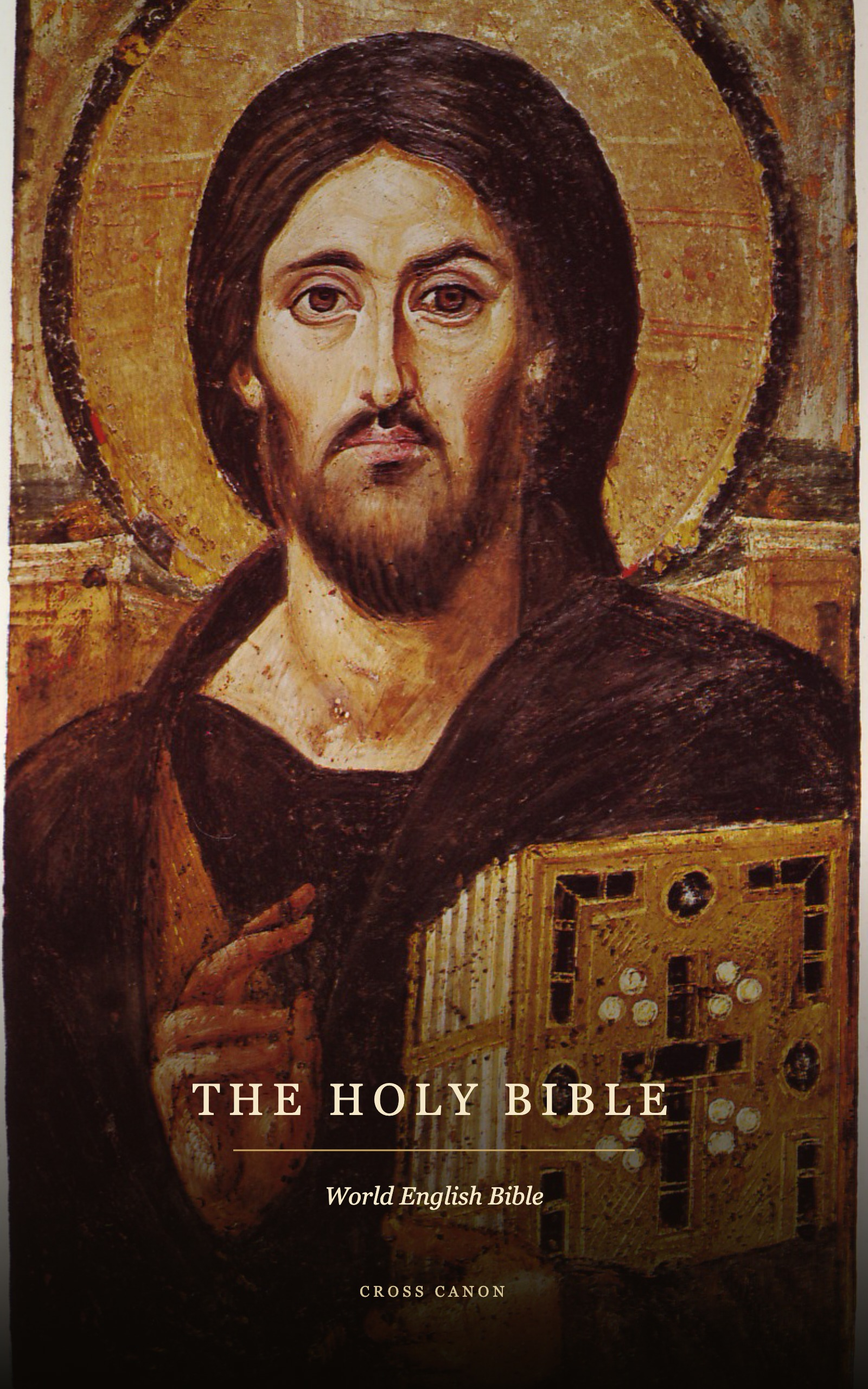
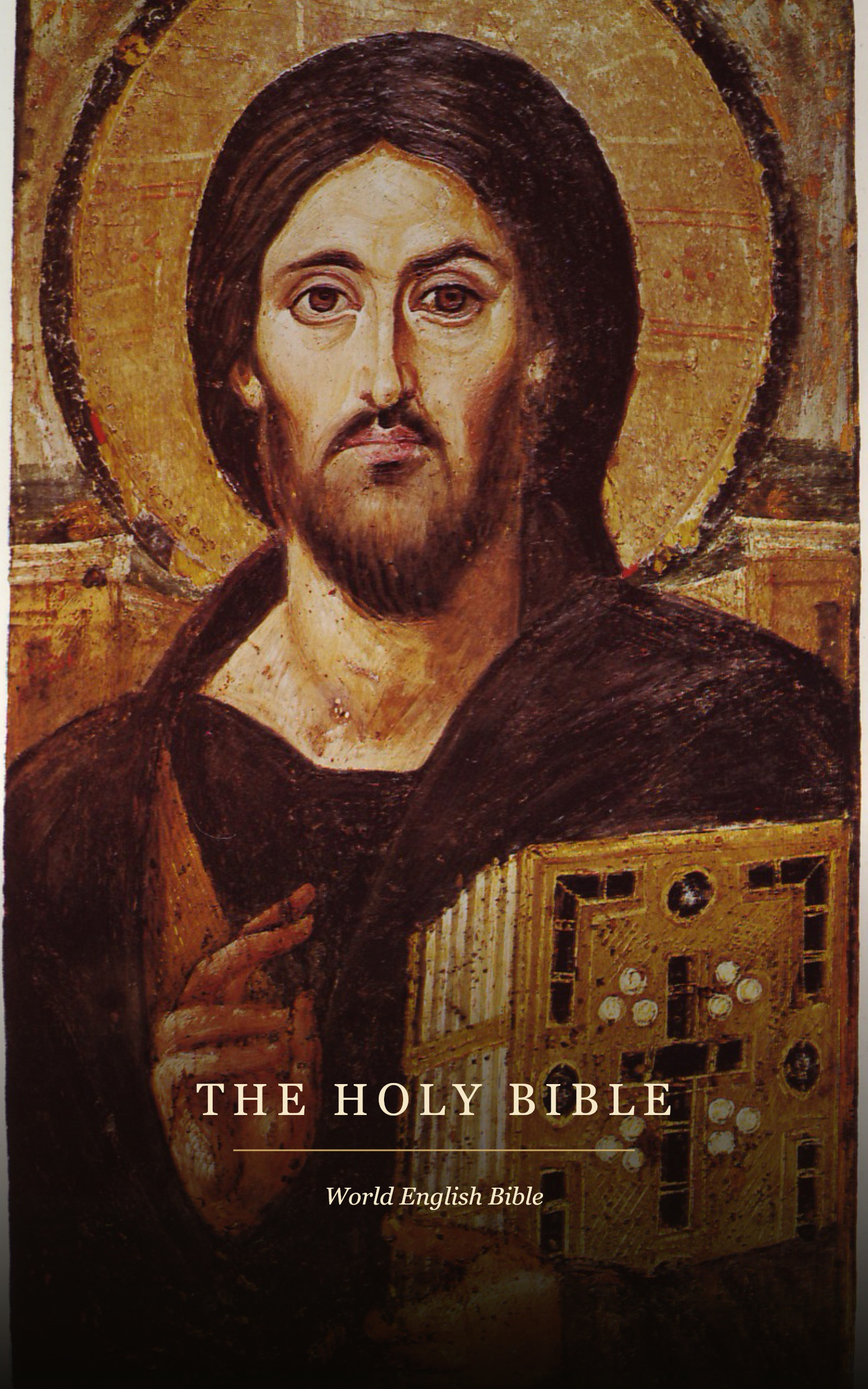
Add compact Kindle contents page

Changed region(s): [[0.375, 0.7812, 0.7812, 0.8125], [0.2188, 0.7812, 0.3438, 0.8125], [0.5312, 0.9062, 0.5625, 0.9375]]

diff --git a/scripts/export-kindle-bible.ts b/scripts/export-kindle-bible.ts
@@ -27,9 +27,10 @@ type BibleVerse = {
 };
 
 const DEFAULT_INPUT_PATH = "data/bible.json";
-const DEFAULT_OUTPUT_PATH = "exports/kindle/cross-canon-bible.epub";
+const DEFAULT_OUTPUT_PATH = "exports/kindle/The Holy Bible.epub";
 const DEFAULT_COVER_PATH = "assets/kindle/cross-canon-bible-cover.jpg";
-const EPUB_TITLE = "The Holy Bible — World English Bible";
+const EPUB_TITLE = "The Holy Bible";
+const BOOK_GRID_COLUMNS = 3;
 const CHAPTER_GRID_COLUMNS = 10;
 
 async function run() {
@@ -173,7 +174,8 @@ function createBibleEpub(bible: Bible, coverImage: Buffer, generatedAt: Date) {
       path: "EPUB/images/cover.jpg"
     },
     epubTextEntry("EPUB/text/cover.xhtml", createCoverPage()),
-    epubTextEntry("EPUB/text/title.xhtml", createTitlePage())
+    epubTextEntry("EPUB/text/title.xhtml", createTitlePage()),
+    epubTextEntry("EPUB/text/contents.xhtml", createContentsDocument(bible))
   ];
 
   bible.books.forEach((book, index) => {
@@ -209,11 +211,10 @@ function createPackageDocument(bible: Bible, generatedAt: Date) {
   return `<?xml version="1.0" encoding="UTF-8"?>
 <package xmlns="http://www.idpf.org/2007/opf" version="3.0" unique-identifier="book-id" xml:lang="en">
   <metadata xmlns:dc="http://purl.org/dc/elements/1.1/">
-    <dc:identifier id="book-id">https://www.crosscanon.com/exports/world-english-bible</dc:identifier>
+    <dc:identifier id="book-id">urn:world-english-bible:kindle-edition</dc:identifier>
     <dc:title>${escapeXml(EPUB_TITLE)}</dc:title>
     <dc:language>en</dc:language>
     <dc:creator>World English Bible</dc:creator>
-    <dc:publisher>Cross Canon</dc:publisher>
     <dc:rights>Public Domain</dc:rights>
     <meta property="dcterms:modified">${generatedAt.toISOString().replace(/\.\d{3}Z$/, "Z")}</meta>
     <meta property="rendition:layout">reflowable</meta>
@@ -225,16 +226,18 @@ function createPackageDocument(bible: Bible, generatedAt: Date) {
     <item id="cover-image" href="images/cover.jpg" media-type="image/jpeg" properties="cover-image"/>
     <item id="cover" href="text/cover.xhtml" media-type="application/xhtml+xml"/>
     <item id="title" href="text/title.xhtml" media-type="application/xhtml+xml"/>
+    <item id="contents" href="text/contents.xhtml" media-type="application/xhtml+xml"/>
 ${bookManifest}
   </manifest>
   <spine>
     <itemref idref="cover"/>
     <itemref idref="title"/>
-    <itemref idref="nav"/>
+    <itemref idref="contents"/>
 ${bookSpine}
   </spine>
   <guide>
     <reference type="cover" title="Cover" href="text/cover.xhtml"/>
+    <reference type="toc" title="Contents" href="text/contents.xhtml"/>
   </guide>
 </package>
 `;
@@ -259,13 +262,14 @@ function createNavigationDocument(bible: Bible) {
   <nav epub:type="toc" id="toc">
     <h1>Contents</h1>
     <ol class="contents">
+      <li><a href="text/contents.xhtml">Contents</a></li>
 ${books}
     </ol>
   </nav>
   <nav epub:type="landmarks" hidden="hidden">
     <ol>
       <li><a epub:type="cover" href="text/cover.xhtml">Cover</a></li>
-      <li><a epub:type="toc" href="nav.xhtml">Contents</a></li>
+      <li><a epub:type="toc" href="text/contents.xhtml">Contents</a></li>
       <li><a epub:type="bodymatter" href="text/book-001.xhtml">Beginning</a></li>
     </ol>
   </nav>
@@ -305,12 +309,11 @@ function createTitlePage() {
   <section epub:type="titlepage" class="title-page">
     <h1>The Holy Bible</h1>
     <p class="subtitle">World English Bible</p>
-    <p>Prepared for Kindle by Cross Canon</p>
   </section>
   <section epub:type="copyright-page" class="source-note">
     <h2>About this edition</h2>
     <p>The World English Bible is in the public domain.</p>
-    <p>This edition was generated from the Cross Canon Scripture source, including its deuterocanonical books.</p>
+    <p>This edition was generated from World English Bible source data, including its deuterocanonical books.</p>
     <p>Source: World English Bible USFM data assembled at github.com/jacksonStone/Bible_as_JSON.</p>
     <p>Cover: <i>Christ Pantocrator</i>, sixth century, Saint Catherine&apos;s Monastery, Sinai. Public-domain image via Wikimedia Commons.</p>
   </section>
@@ -319,14 +322,42 @@ function createTitlePage() {
 `;
 }
 
+function createContentsDocument(bible: Bible) {
+  const bookRows = groupIntoRows(bible.books, BOOK_GRID_COLUMNS)
+    .map((books, rowIndex) => (
+      `        <tr>\n${books
+        .map((book, columnIndex) => {
+          const bookIndex = rowIndex * BOOK_GRID_COLUMNS + columnIndex;
+          return `          <td><a href="${bookFileName(bookIndex)}">${escapeXml(book.name)}</a></td>`;
+        })
+        .join("\n")}\n        </tr>`
+    ))
+    .join("\n");
+
+  return `<?xml version="1.0" encoding="UTF-8"?>
+<!DOCTYPE html>
+<html xmlns="http://www.w3.org/1999/xhtml" xmlns:epub="http://www.idpf.org/2007/ops" xml:lang="en">
+<head>
+  <meta charset="UTF-8"/>
+  <title>Contents</title>
+  <link rel="stylesheet" type="text/css" href="../styles/book.css"/>
+</head>
+<body epub:type="frontmatter" class="contents-page">
+  <section epub:type="toc" id="contents">
+    <h1 class="contents-title">Contents</h1>
+    <table class="book-grid">
+      <tbody>
+${bookRows}
+      </tbody>
+    </table>
+  </section>
+</body>
+</html>
+`;
+}
+
 function createBookDocument(book: BibleBook) {
-  const chapterRows = Array.from(
-    { length: Math.ceil(book.chapters.length / CHAPTER_GRID_COLUMNS) },
-    (_, rowIndex) => book.chapters.slice(
-      rowIndex * CHAPTER_GRID_COLUMNS,
-      (rowIndex + 1) * CHAPTER_GRID_COLUMNS
-    )
-  )
+  const chapterRows = groupIntoRows(book.chapters, CHAPTER_GRID_COLUMNS)
     .map((chapters) => (
       `        <tr>\n${chapters
         .map((chapter) => (
@@ -434,14 +465,29 @@ h2 {
   break-before: page;
 }
 
-.contents {
-  list-style-type: none;
-  margin: 0;
-  padding: 0;
+.contents-page {
+  margin: 3%;
 }
 
-.contents li {
-  margin: 0.2em 0;
+.contents-title {
+  font-size: 18pt;
+  margin-bottom: 8pt;
+}
+
+.book-grid {
+  border-collapse: collapse;
+  break-inside: avoid;
+  font-size: 9pt;
+  line-height: 1.15;
+  margin: 0;
+  page-break-inside: avoid;
+  table-layout: fixed;
+  width: 100%;
+}
+
+.book-grid td {
+  padding: 1pt 2pt;
+  text-align: left;
 }
 
 .chapter-navigation {
@@ -475,6 +521,16 @@ h2 {
   text-align: center;
 }
 `;
+}
+
+function groupIntoRows<Item>(items: Item[], columnCount: number) {
+  return Array.from(
+    { length: Math.ceil(items.length / columnCount) },
+    (_, rowIndex) => items.slice(
+      rowIndex * columnCount,
+      (rowIndex + 1) * columnCount
+    )
+  );
 }
 
 function bookFileName(index: number) {

diff --git a/scripts/export-kindle-bible.test.ts b/scripts/export-kindle-bible.test.ts
@@ -23,16 +23,33 @@ test("the Kindle export command creates a navigable EPUB from Bible JSON", async
     assert.ok(archive.has("EPUB/text/book-005.xhtml"));
     assert.ok(archive.has("EPUB/images/cover.jpg"));
     assert.ok(archive.has("EPUB/text/cover.xhtml"));
+    assert.ok(archive.has("EPUB/text/contents.xhtml"));
 
     const mimetype = readArchiveText(archive, "mimetype");
     assert.equal(mimetype, "application/epub+zip");
     assert.equal(archive.get("mimetype")?.compressionMethod, 0);
 
     const navigation = readArchiveText(archive, "EPUB/nav.xhtml");
+    assert.match(
+      navigation,
+      /<li><a href="text\/contents\.xhtml">Contents<\/a><\/li>/
+    );
     assert.match(navigation, /<a href="text\/book-001\.xhtml">Genesis<\/a>/);
     assert.match(navigation, /<a href="text\/book-005\.xhtml">Romans<\/a>/);
+    assert.ok(
+      navigation.indexOf('href="text/contents.xhtml"')
+      < navigation.indexOf('href="text/book-001.xhtml"')
+    );
     assert.doesNotMatch(navigation, /#genesis-chapter-1/);
     assert.doesNotMatch(navigation, />Chapter 1<\/a>/);
+
+    const contents = readArchiveText(archive, "EPUB/text/contents.xhtml");
+    assert.match(contents, /<h1 class="contents-title">Contents<\/h1>/);
+    assert.match(contents, /<table class="book-grid">/);
+    assert.match(
+      contents,
+      /<tr>\s*<td><a href="book-001\.xhtml">Genesis<\/a><\/td>[\s\S]*?<td><a href="book-003\.xhtml">Matthew<\/a><\/td>\s*<\/tr>/
+    );
 
     const genesis = readArchiveText(archive, "EPUB/text/book-001.xhtml");
     assert.match(genesis, /<h1 class="book-title">Genesis<\/h1>/);
@@ -53,14 +70,28 @@ test("the Kindle export command creates a navigable EPUB from Bible JSON", async
     );
 
     const packageDocument = readArchiveText(archive, "EPUB/package.opf");
-    assert.match(packageDocument, /The Holy Bible — World English Bible/);
+    assert.match(packageDocument, /<dc:title>The Holy Bible<\/dc:title>/);
+    assert.doesNotMatch(packageDocument, /Cross Canon/);
     assert.match(packageDocument, /properties="nav"/);
     assert.match(packageDocument, /properties="cover-image"/);
     assert.match(packageDocument, /<meta name="cover" content="cover-image"\/>/);
+    assert.match(
+      packageDocument,
+      /<item id="contents" href="text\/contents\.xhtml" media-type="application\/xhtml\+xml"\/>/
+    );
+    assert.match(
+      packageDocument,
+      /<reference type="toc" title="Contents" href="text\/contents\.xhtml"\/>/
+    );
     assert.ok(
       packageDocument.indexOf('<itemref idref="cover"/>')
       < packageDocument.indexOf('<itemref idref="title"/>')
     );
+    assert.ok(
+      packageDocument.indexOf('<itemref idref="contents"/>')
+      < packageDocument.indexOf('<itemref idref="book-001"/>')
+    );
+    assert.doesNotMatch(packageDocument, /<itemref idref="nav"\/>/);
 
     const coverPage = readArchiveText(archive, "EPUB/text/cover.xhtml");
     assert.match(coverPage, /src="\.\.\/images\/cover\.jpg"/);
@@ -130,6 +161,34 @@ test("book chapter navigation uses a compact ten-column grid", async () => {
     assert.match(styles, /table-layout: fixed;/);
     assert.match(styles, /page-break-inside: avoid;/);
     assert.match(styles, /\.book-title\s*{[\s\S]*?font-size: 18pt;/);
+  });
+});
+
+test("the visible Contents page fits 81 Books into a compact three-column grid", async () => {
+  const inputBody = JSON.stringify(Array.from({ length: 81 }, (_, index) => ({
+    book: `Book ${index + 1}`,
+    chapters: [{
+      chapter: 1,
+      verses: [{ verse: 1, text: `Text ${index + 1}.` }]
+    }]
+  })));
+
+  await withBibleExport({ inputBody }, (archive) => {
+    const contents = readArchiveText(archive, "EPUB/text/contents.xhtml");
+    assert.match(
+      contents,
+      /<tr>\s*<td><a href="book-001\.xhtml">Book 1<\/a><\/td>[\s\S]*?<td><a href="book-003\.xhtml">Book 3<\/a><\/td>\s*<\/tr>/
+    );
+    assert.match(
+      contents,
+      /<tr>\s*<td><a href="book-079\.xhtml">Book 79<\/a><\/td>[\s\S]*?<td><a href="book-081\.xhtml">Book 81<\/a><\/td>\s*<\/tr>/
+    );
+    assert.equal(contents.match(/<tr>/g)?.length, 27);
+
+    const styles = readArchiveText(archive, "EPUB/styles/book.css");
+    assert.match(styles, /\.book-grid\s*{/);
+    assert.match(styles, /font-size: 9pt;/);
+    assert.match(styles, /page-break-inside: avoid;/);
   });
 });
 

diff --git a/README.md b/README.md
@@ -199,7 +199,7 @@ npm run export:kindle
 The generated personal-document artifact is written to:
 
 ```text
-exports/kindle/cross-canon-bible.epub
+exports/kindle/The Holy Bible.epub
 ```
 
 The EPUB includes a Kindle-compatible cover, a concise Book-level table of
@@ -214,7 +214,7 @@ needed:
 npm run export:kindle:bible -- \
   --input data/bible.json \
   --cover assets/kindle/cross-canon-bible-cover.jpg \
-  --output exports/kindle/cross-canon-bible.epub
+  --output "exports/kindle/The Holy Bible.epub"
 ```
 
 ## Early Christian Audio Alignment
